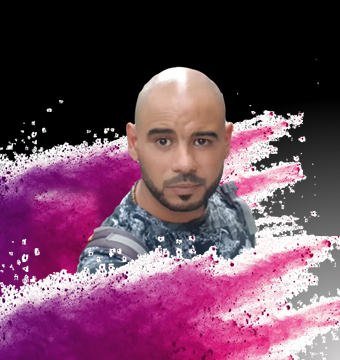
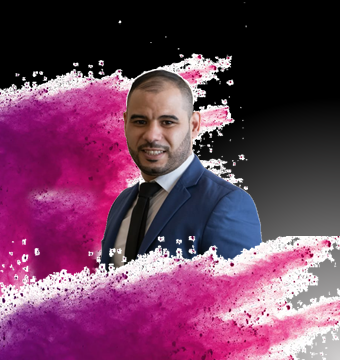
last
laaas

diff --git a/index.html b/index.html
@@ -78,7 +78,7 @@
     <section id="slider">
         <div id="home-carousel" class="carousel slide" data-ride="carousel">
             <div class="carousel-inner">
-                <div class="item active" style="background-image:url(images/Slider/01.jpg)">
+                <div class="item active" style="background-image:url(images/Slider/01.png)">
                     <div class="carousel-caption container">
                         <div class="row">
                             <div class="col-md-7 col-sm-12 col-xs-12">
@@ -410,7 +410,7 @@
                 </div>
                 <div class="col-md-3 col-sm-6 col-xs-12 team-main-sec wow slideInUp" data-wow-duration="1s" data-wow-delay=".2s">
                     <div class="team-sec">
-                        <div class="team-img"> <img src="images/Team/oussama.png" class="img-responsive" alt="">
+                        <div class="team-img"> <img src="images/Team/5.png" class="img-responsive" alt="">
                             <div class="team-desc">
                                 <h5>Oussama ben rejab</h5>
                                 <p>Full stuck developer</p>
@@ -455,7 +455,7 @@
                 </div>
                 <div class="col-md-3 col-sm-6 col-xs-12 team-main-sec wow slideInUp" data-wow-duration="1s" data-wow-delay=".3s">
                     <div class="team-sec">
-                        <div class="team-img"> <img src="images/Team/Roberto.png" class="img-responsive" alt="">
+                        <div class="team-img"> <img src="images/Team/Robert.png" class="img-responsive" alt="">
                             <div class="team-desc">
                                 <h5>ROBERT MAKOKHA</h5>
                                 <p>
